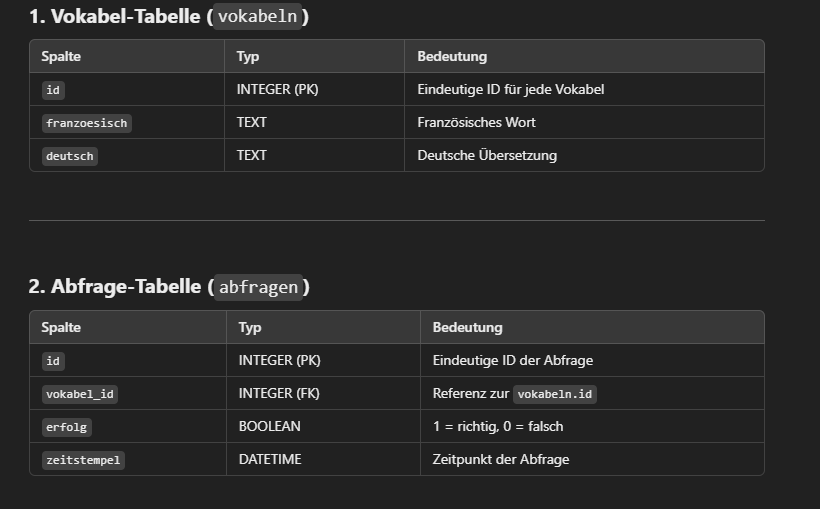
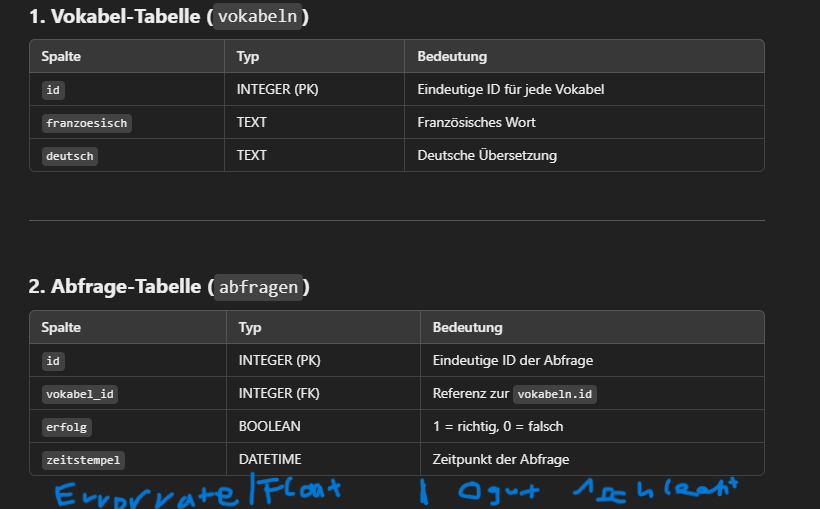
Add files via upload

diff --git a/V2/jsonToDb.py b/V2/jsonToDb.py
@@ -1,0 +1,35 @@
+from sqlalchemy import create_engine, ForeignKey, Column, String,Integer,CHAR
+from sqlalchemy.orm import declarative_base, sessionmaker
+import json
+
+engine = create_engine('sqlite:///vocs.db')
+Base = declarative_base()
+
+class Item(Base):
+    __tablename__ = "vocs"
+
+    id = Column(Integer, primary_key=True)
+    french = Column(String, nullable=False)
+    german = Column(String,nullable=False)
+
+# Tabellen in der Datenbank erstellen
+Base.metadata.create_all(engine)
+
+Session = sessionmaker(bind=engine)
+session = Session()
+
+def add_item(french, german):
+    new_item = Item(french=french, german=german)
+    session.add(new_item)
+    session.commit()
+    print(f"Item '{german}' hinzugefügt!")
+
+
+def jsonTodb():
+    with open("vocs.json", "r", encoding="UTF-8") as f:
+        vocsJson = json.load(f)
+    for word in vocsJson:
+        add_item(word["french"], word["german"])
+
+if __name__ == "__main__":
+    jsonTodb()

diff --git a/V2/DataBase.py b/V2/DataBase.py
@@ -1,9 +1,9 @@
-from sqlalchemy import create_engine, Column, String, Integer
+from sqlalchemy import create_engine, Column, String, Integer, Float, Boolean
 from sqlalchemy.orm import declarative_base, sessionmaker
 from random import randint,sample
 
 
-engine = create_engine('sqlite:///vocs.db')
+engine = create_engine('sqlite:///db.db')
 Base = declarative_base()
 
 class Vocab(Base):  
@@ -12,6 +12,17 @@ class Vocab(Base):
     id = Column(Integer, primary_key=True)
     french = Column(String, nullable=False)
     german = Column(String, nullable=False)
+
+
+class Query(Base):
+    __tablename__ = "query"
+    
+    id = Column(Integer,primary_key=True)
+    vocab_id = Column(Integer, nullable = False)
+    success = Column(Boolean, nullable= False)
+    error_rate = Column(Float, nullable= False)
+    timestamp = Column
+
 
 Base.metadata.create_all(engine)
 

diff --git a/V2/main.py b/V2/main.py
@@ -19,15 +19,12 @@ def history():
 def send():
     input = ui.get_input_entry()
     if input != vocab[index]["french"]:
-        wrongChars = []
+        wrongChars = 0
         for i in range(min(len(vocab[index]["french"]), len(input))): #makes the x in range of the longer string
             if vocab[index]["french"][i] != input[i]:
-                wrongChars.append(i)
+                wrongChars += 1
 
-        for i in wrongChars:
-            ui.input_entry.tag_add("highlight",f"1.{i}",f"1.{i+1}")
-            ui.input_entry.tag_configure("highlight", background="#5b6103", foreground="black")
-
+        
 
         ui.input_entry.config(bg="#2a0000")
         ui.set_vokabel_label(f'"{vocab[index]["german"]}" - "{vocab[index]["french"]}"')

diff --git a/V2/UI.py b/V2/UI.py
@@ -36,6 +36,9 @@ class UI:
         self.vokabel_label = tk.Label(self.root, bg='#2a2a2a', fg='#00ff00', font=('Arial', 36), padx=20, pady=10, text="")
         self.vokabel_label.place(relx=0.5, rely=0.3, anchor="center")
 
+        self.correction_Label = tk.Label(self.root, bg='#1a1a1a', fg='#00ff00', font=('Arial', 16), padx=20, pady=10, text="")
+        self.correction_Label.place(relx=0.5, rely=0.45, anchor="center")
+
         self.input_entry = tk.Entry(self.root, bg='#2a2a2a', fg='#00ff00', insertbackground='#00ff00', font=('Arial', 20), width=30)
         self.input_entry.place(relx=0.5, rely=0.6, anchor="center")
 

diff --git a/V2/algorithm.py b/V2/algorithm.py
@@ -7,9 +7,9 @@ def randomReturn(size):
     vocab_list  = []
     for word in choosen_vocab:
         obj = {"french": word.french,
-               "german": word.german}
+               "german": word.german,
+               "id": word.id}
         vocab_list.append(obj)
-    print(vocab_list)
     return vocab_list
 if __name__ == "__main__":
     pass
